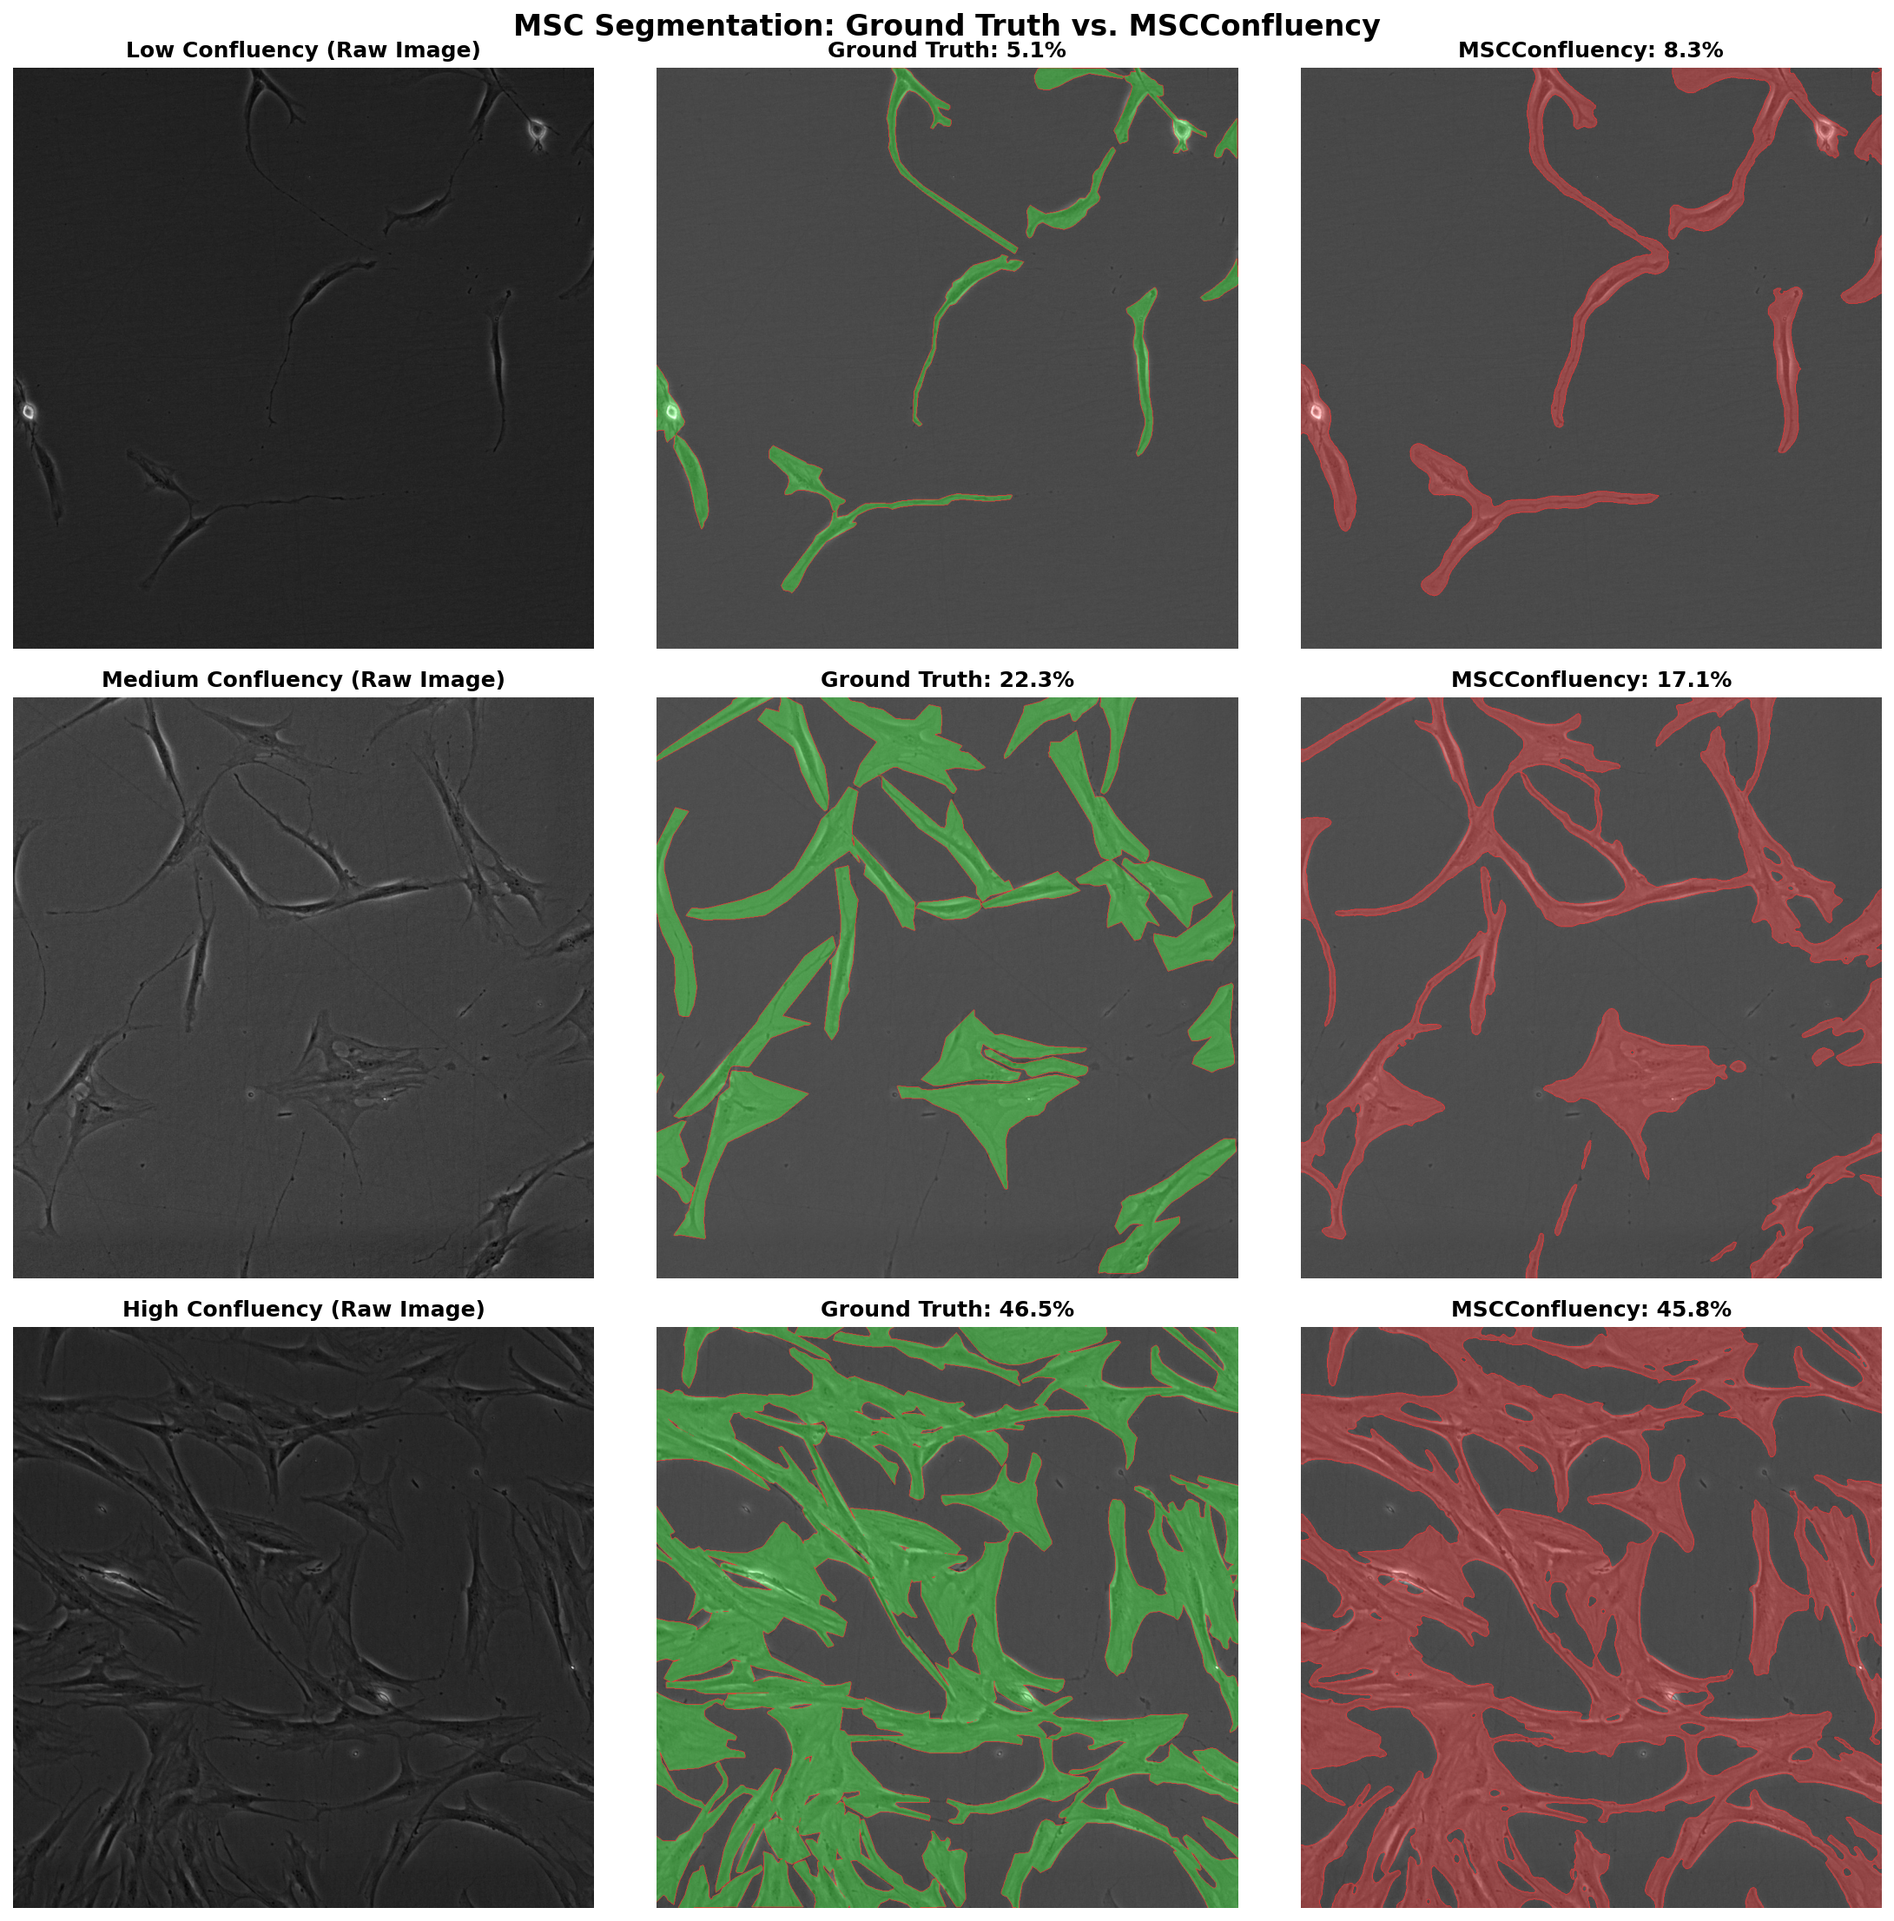
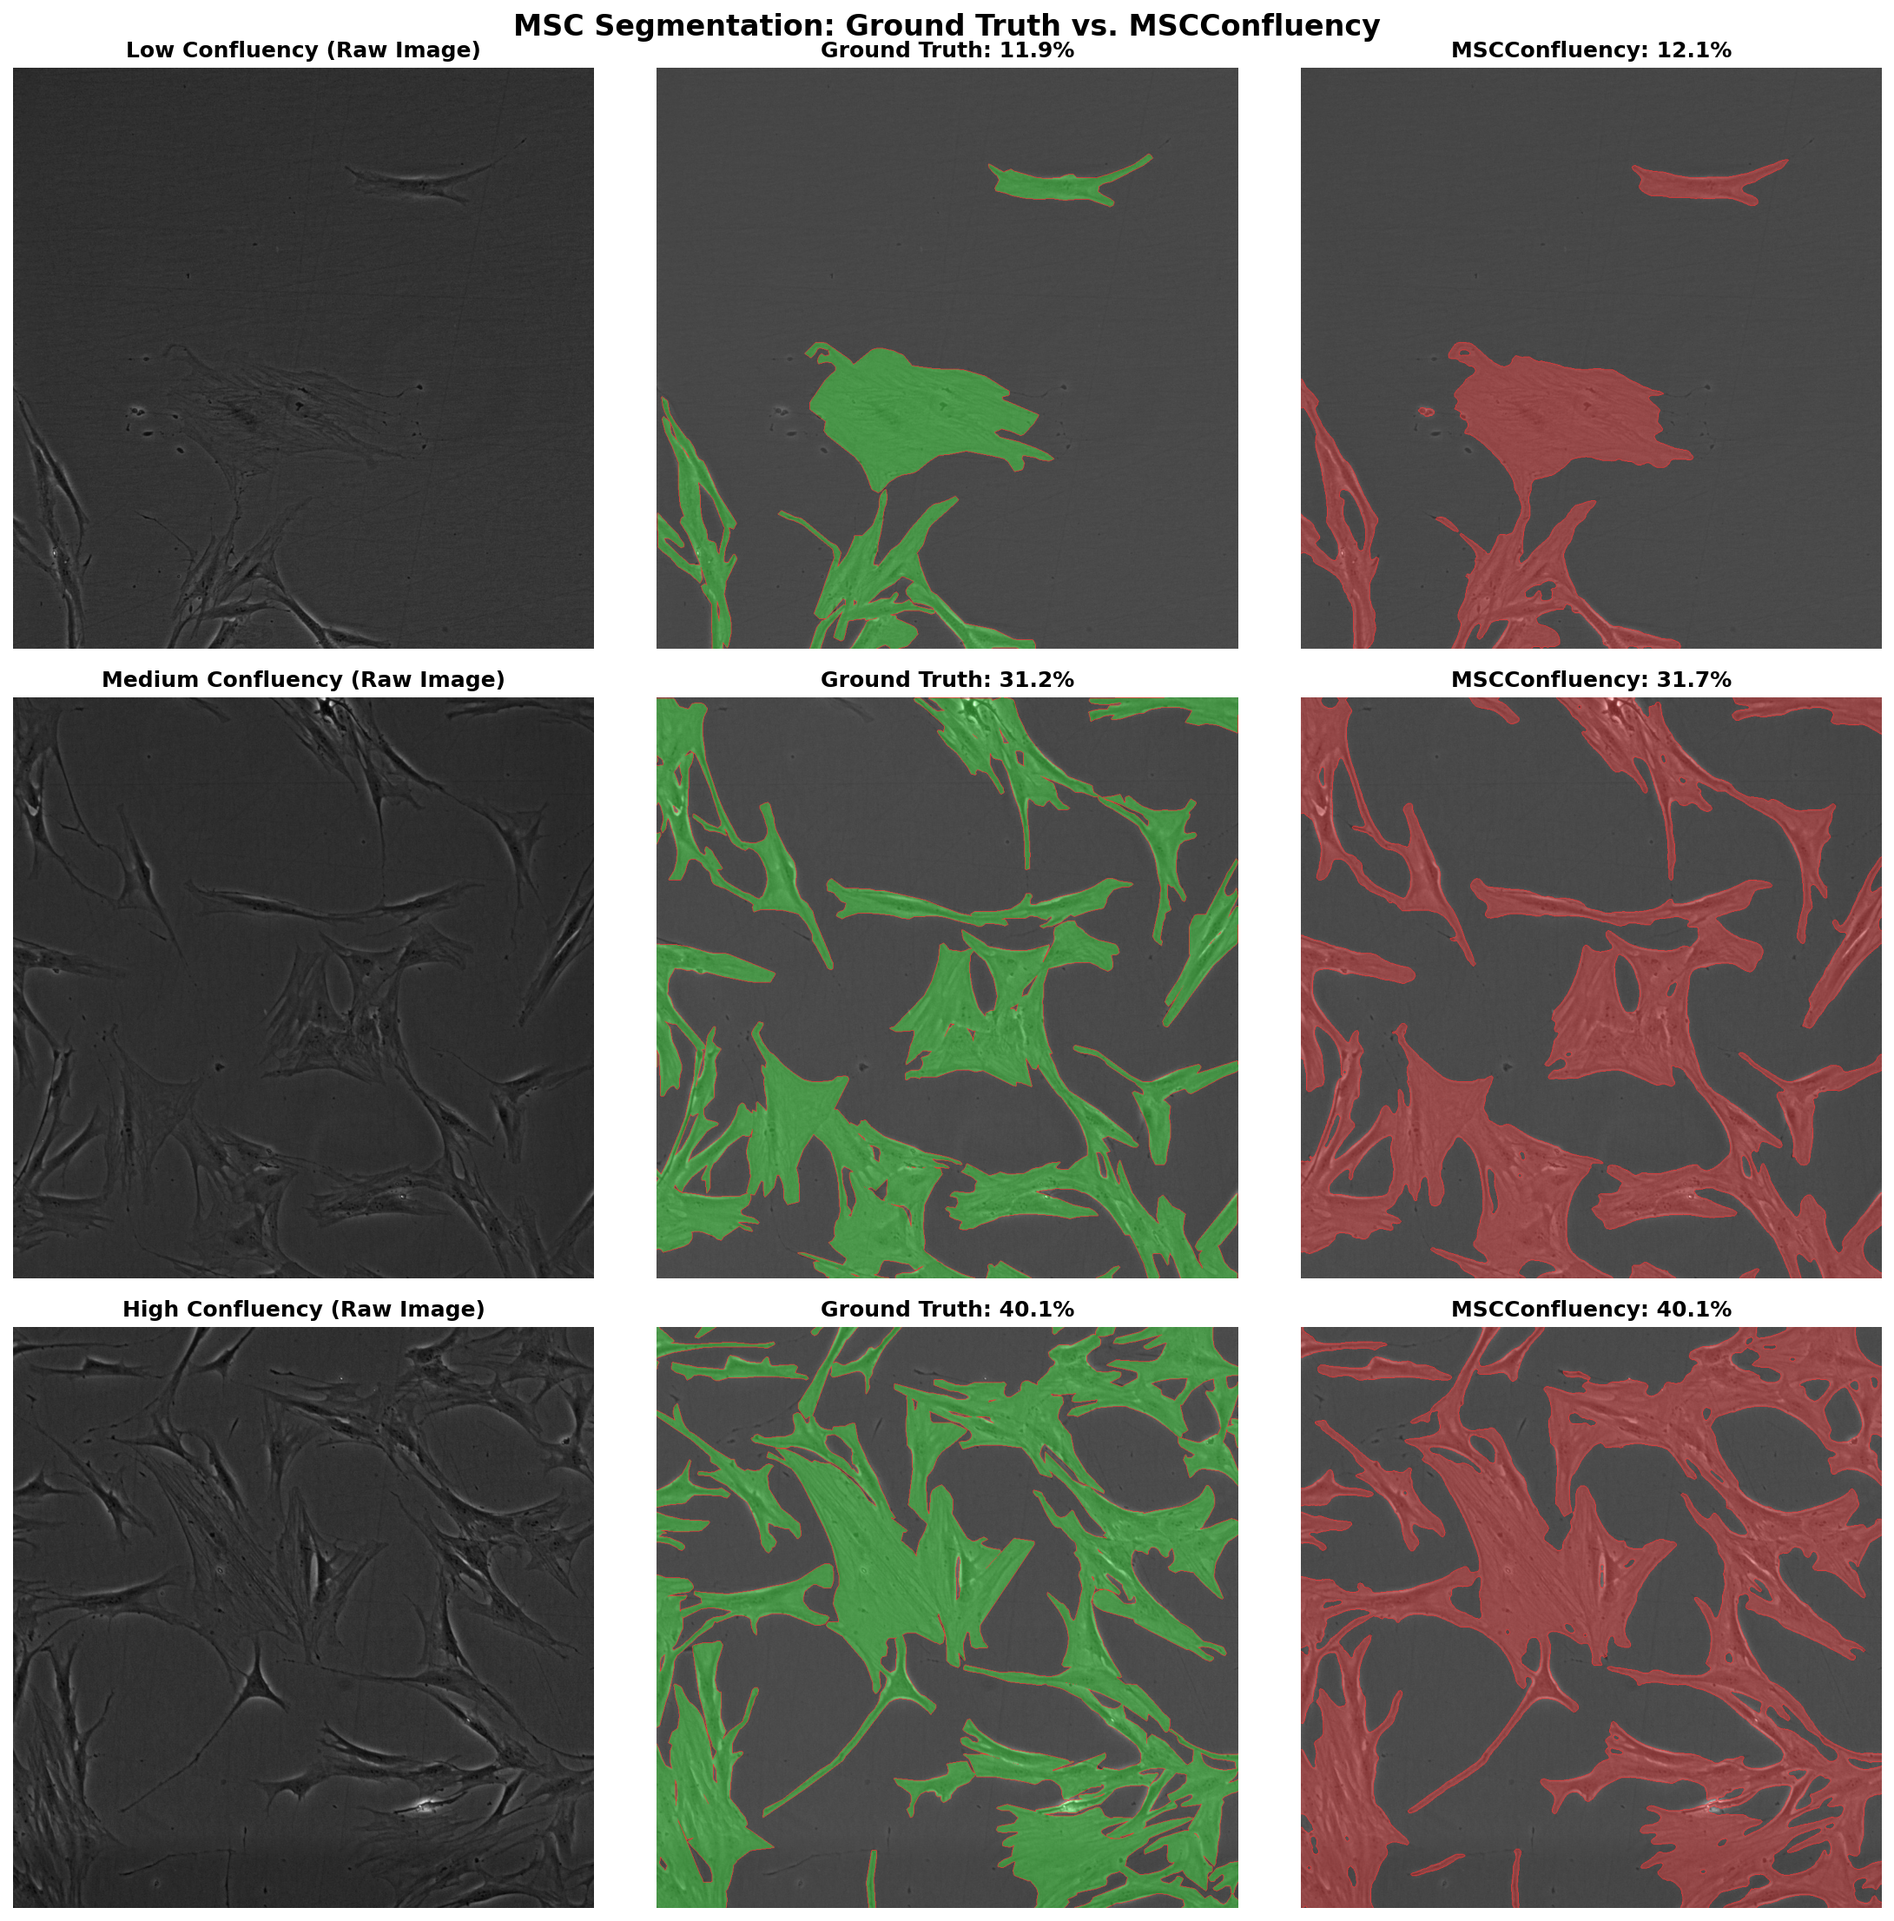
docs: optimize evaluation examples selection to pick highest-Dice representatives

diff --git a/scripts/evaluate.py b/scripts/evaluate.py
@@ -245,30 +245,9 @@ def save_visual_examples(test_pairs, model, in_channels, config, device, output_
     """Save side-by-side overlays of predictions vs ground truth for representative cases."""
     print("Generating representative visual overlays (low, med, high confluency)...")
 
-    # First pass: compute GT confluency for every test image so we can
-    # pick truly representative low / median / high examples from the
-    # full test set.
-    pair_confs = []
+    # Precompute prediction and metrics for all test images
+    all_test_data = []
     for img_path, mask_path in test_pairs:
-        gt_mask = plt.imread(str(mask_path))
-        if gt_mask.ndim == 3:
-            gt_mask = gt_mask.mean(axis=-1)
-        gt_mask = gt_mask > 0.5
-        gt_conf = (gt_mask.sum() / gt_mask.size) * 100
-        pair_confs.append((img_path, mask_path, gt_conf))
-
-    # Sort by GT confluency and pick low / median / high
-    pair_confs.sort(key=lambda x: x[2])
-    pick_indices = [
-        0,
-        len(pair_confs) // 2,
-        len(pair_confs) - 1,
-    ]
-    selected_pairs = [pair_confs[i] for i in pick_indices]
-
-    # Second pass: run the model only on the 3 selected images
-    evaluated_examples = []
-    for img_path, mask_path, gt_conf in selected_pairs:
         raw_image = plt.imread(str(img_path))
         if raw_image.ndim == 3:
             raw_image = raw_image.mean(axis=-1)
@@ -277,13 +256,16 @@ def save_visual_examples(test_pairs, model, in_channels, config, device, output_
         if gt_mask.ndim == 3:
             gt_mask = gt_mask.mean(axis=-1)
         gt_mask = gt_mask > 0.5
+        gt_conf = (gt_mask.sum() / gt_mask.size) * 100
 
         image = preprocess_image(raw_image)
         density_map = get_density_map(model, image, in_channels, device)
         pred_mask = segment_density(density_map, config)
         pred_conf = (pred_mask.sum() / pred_mask.size) * 100
 
-        evaluated_examples.append(
+        metrics = calculate_metrics(pred_mask, gt_mask)
+
+        all_test_data.append(
             {
                 "img_path": img_path,
                 "raw_image": raw_image,
@@ -291,8 +273,24 @@ def save_visual_examples(test_pairs, model, in_channels, config, device, output_
                 "gt_conf": gt_conf,
                 "pred_mask": pred_mask,
                 "pred_conf": pred_conf,
+                "dice": metrics["dice"],
             }
         )
+
+    # Filter and sort by Dice coefficient to find the best match in each confluency band
+    low_candidates = [x for x in all_test_data if 5.0 <= x["gt_conf"] < 20.0]
+    med_candidates = [x for x in all_test_data if 20.0 <= x["gt_conf"] < 35.0]
+    high_candidates = [x for x in all_test_data if 35.0 <= x["gt_conf"] <= 55.0]
+
+    low_candidates.sort(key=lambda x: x["dice"], reverse=True)
+    med_candidates.sort(key=lambda x: x["dice"], reverse=True)
+    high_candidates.sort(key=lambda x: x["dice"], reverse=True)
+
+    evaluated_examples = [
+        low_candidates[0] if low_candidates else all_test_data[0],
+        med_candidates[0] if med_candidates else all_test_data[len(all_test_data) // 2],
+        high_candidates[0] if high_candidates else all_test_data[-1],
+    ]
 
     fig, axes = plt.subplots(3, 3, figsize=(15, 15))
 
